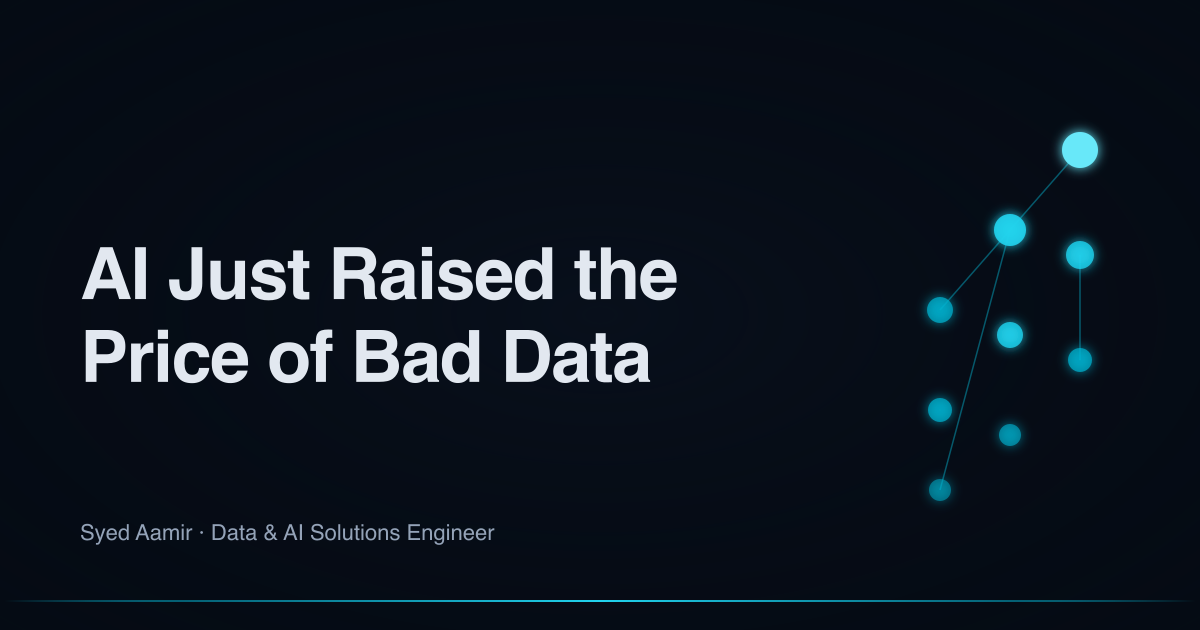
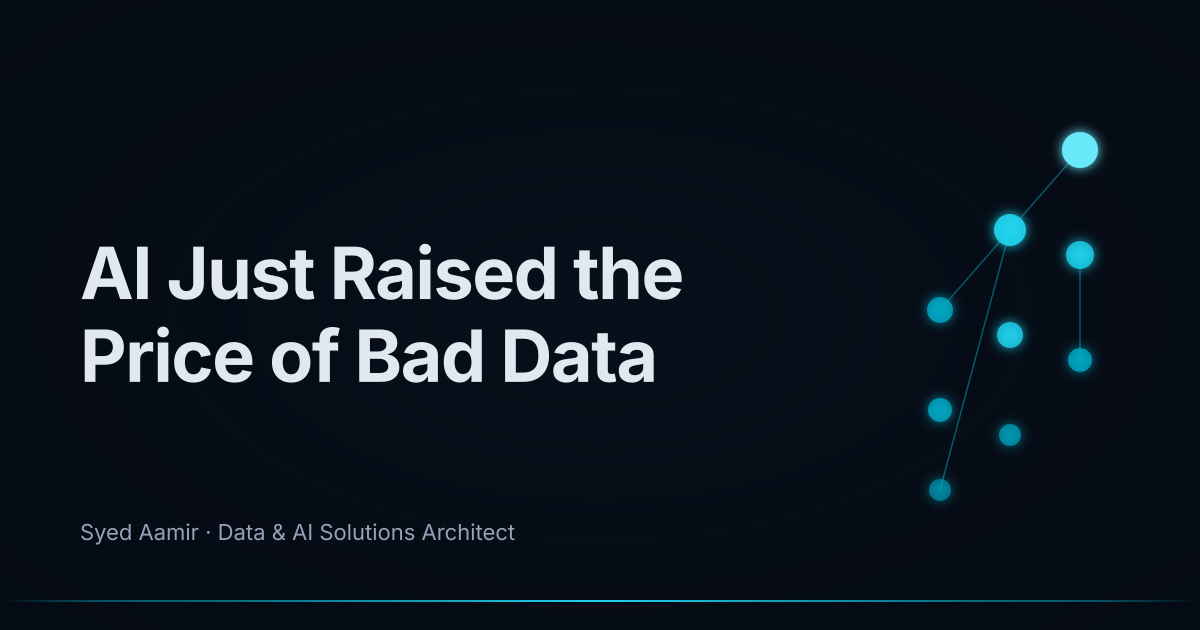
Reposition public title from Solutions Engineer to Solutions Architect
Elevate positioning to read senior for 10+ years. Updates SITE.title and
meta description, the hardcoded OG card eyebrow and blog byline, and
regenerates the homepage and blog social cards.

diff --git a/src/config.ts b/src/config.ts
@@ -1,10 +1,10 @@
 export const SITE = {
   name: 'Syed Aamir',
-  title: 'Data & AI Solutions Engineer',
+  title: 'Data & AI Solutions Architect',
   // "10+ years" is intentionally manual here (meta description, ~5-year cadence).
   // Rationale and the milestone to bump live in src/CLAUDE.md, "Computed figures".
   description:
-    'Data and AI solutions engineer based in Dubai, UAE. 10+ years delivering practical data platforms, analytics systems, and AI automation.',
+    'Data and AI solutions architect based in Dubai, UAE. 10+ years architecting data platforms, analytics systems, and AI automation at enterprise scale.',
   url: 'https://syedaamir.com',
   author: 'Syed Aamir',
   email: '[email redacted]',